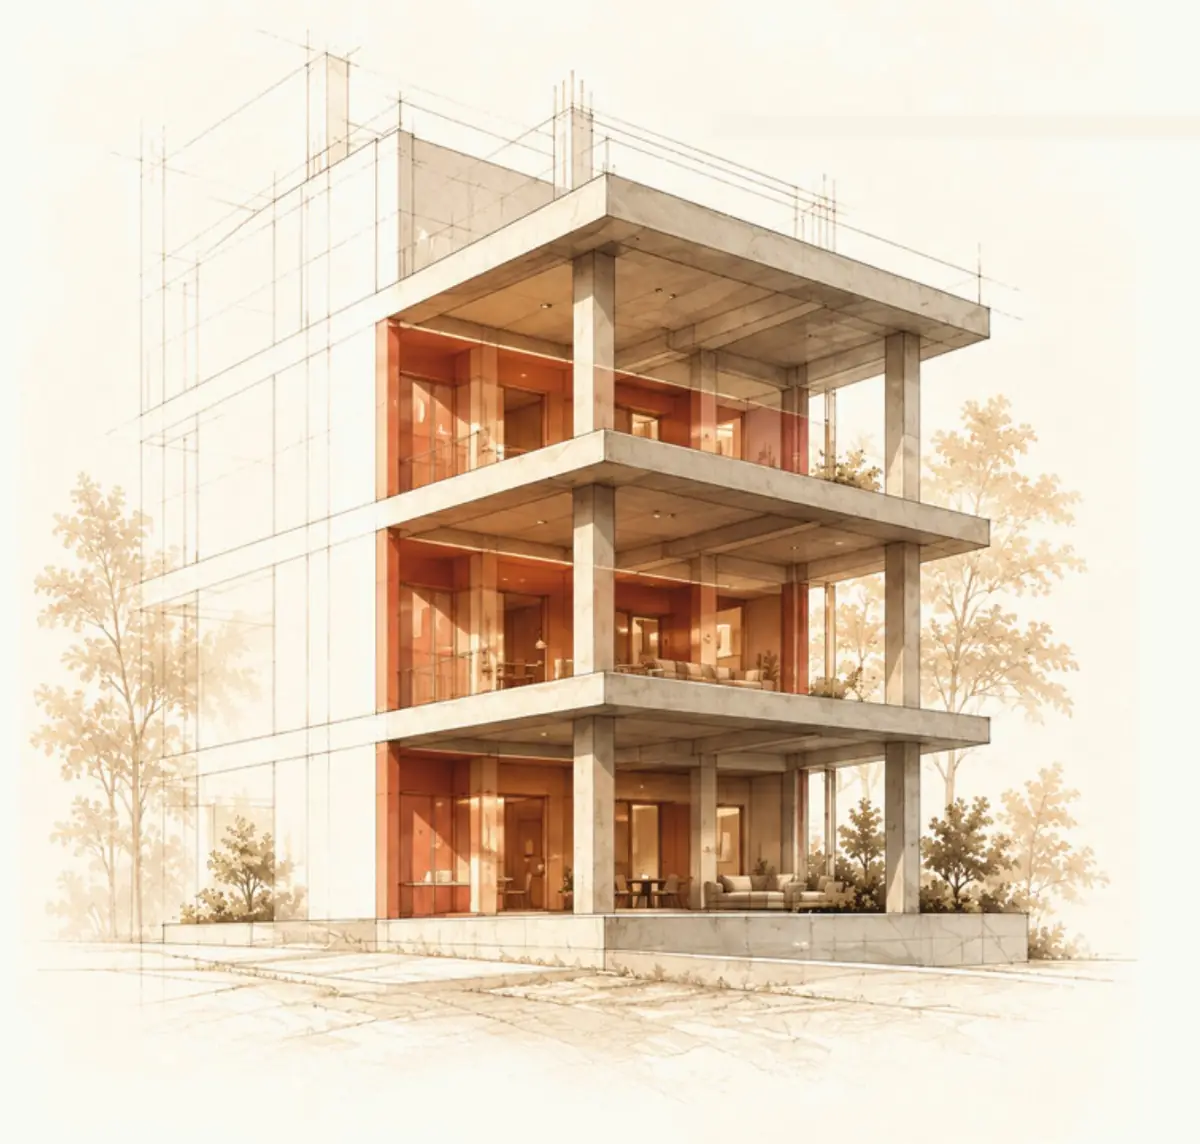
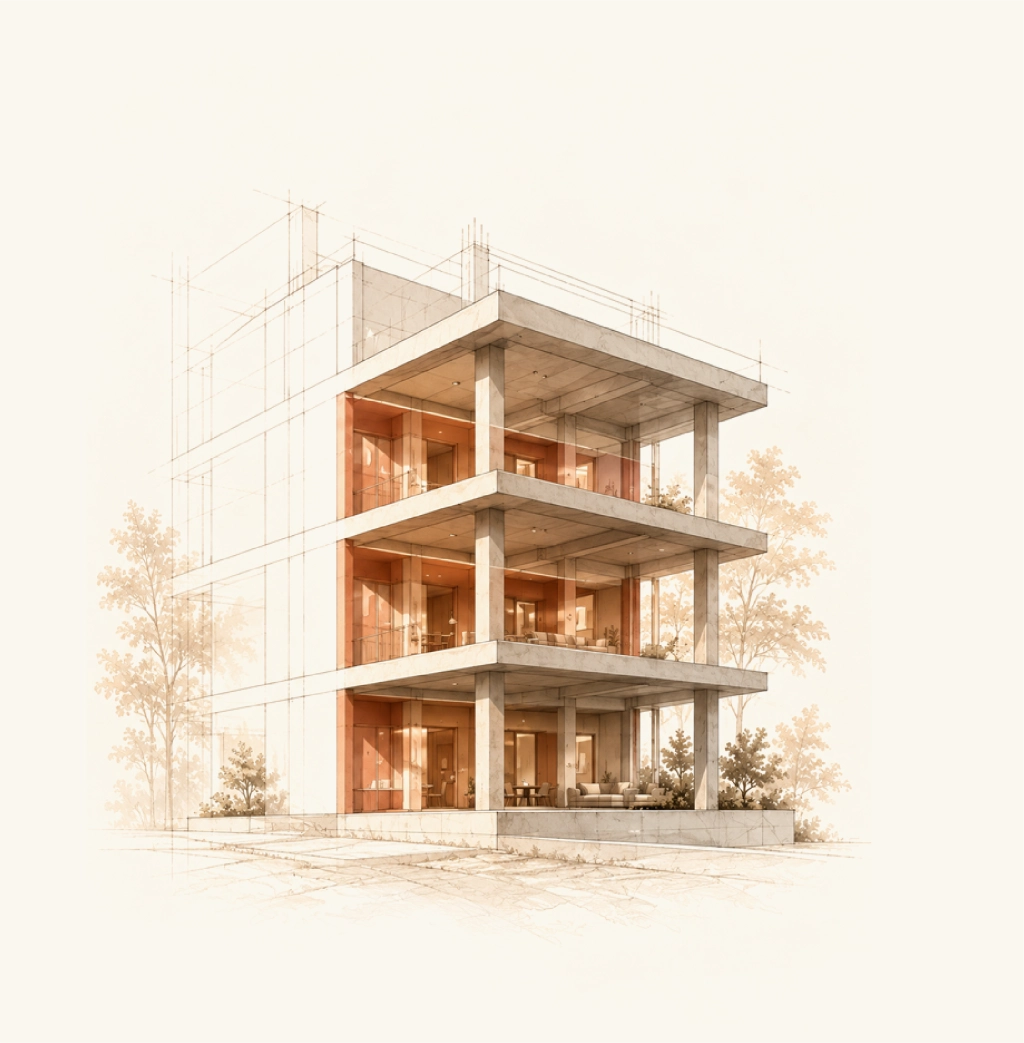
Changes applied

diff --git a/src/styles/global.css b/src/styles/global.css
@@ -558,15 +558,18 @@ html.plan-full-open .nav,html.plan-full-open .mcta{visibility:hidden}
 @media (min-width:1000px){.prog-grid{grid-template-columns:4fr 5fr 3fr;gap:48px}}
 .prog-img img{width:100%;max-width:620px;margin:0 auto}
 .checks{list-style:none;margin:0;padding:0;position:relative}
-.checks::before{content:"";position:absolute;left:15px;top:16px;bottom:16px;width:1.5px;background:linear-gradient(var(--crimson) 0 42%,var(--sand-line) 42%)}
-.checks li{position:relative;display:flex;align-items:center;gap:18px;padding:13px 0;font-size:1.18rem;font-weight:600}
-.checks .c{flex:none;width:32px;height:32px;border-radius:50%;display:grid;place-items:center;position:relative;z-index:1}
+.checks li{position:relative;display:flex;align-items:center;gap:18px;min-height:58px;padding:13px 0;font-size:1.18rem;line-height:1.2;font-weight:600}
+.checks .c{flex:none;width:32px;height:32px;border-radius:50%;display:grid;place-items:center;position:relative;z-index:1;box-sizing:border-box}
 .checks .done .c{background:var(--crimson);color:#fff}
 .checks .done{color:var(--crimson)}
 .checks .todo .c{background:var(--cream);border:1.5px dashed var(--sand-line)}
 .checks .todo{color:var(--ink-soft);font-weight:500}
-.checks .eta{margin-top:10px;padding-top:18px;border-top:1px solid var(--line);font-size:1rem;color:var(--ink)}
-.checks .eta b{font:400 1.8rem/1.1 var(--display);color:var(--crimson);display:block}
+/* connector: runs from the centre of the previous circle to the centre of this one, so it starts and ends exactly on the circles */
+.checks li:not(:first-child):not(.eta)::before{content:"";position:absolute;left:15px;top:-29px;height:58px;width:0;border-left:1.5px dashed var(--sand-line)}
+.checks li.done+li.done::before{border-left:1.5px solid var(--crimson)}
+/* completion note: divider spans the column, text starts flush with the left edge of the circles */
+.checks .eta{display:block;min-height:0;margin-top:14px;padding:20px 0 0;border-top:1px solid var(--line);font-size:1rem;font-weight:500;color:var(--ink)}
+.checks .eta b{font:400 1.8rem/1.1 var(--display);color:var(--crimson);display:block;margin-bottom:4px}
 
 /* ───────── VISION ───────── */
 .vision{position:relative;overflow:hidden;background:linear-gradient(115deg,var(--cream) 40%,#FBF1C9 85%,#F8E37A 120%)}
@@ -628,6 +631,9 @@ html.plan-full-open .nav,html.plan-full-open .mcta{visibility:hidden}
 .copy{font:700 .76rem var(--body);letter-spacing:.12em;text-transform:uppercase;background:transparent;border:1.5px solid rgba(255,248,230,.6);color:#FFF8E6;border-radius:999px;padding:.65em 1.1em;cursor:pointer}
 .copy:hover{background:#FFF8E6;color:var(--crimson-deep)}
 form.f,.thanks{background:var(--cream);color:var(--ink);border-radius:32px;padding:clamp(24px,4vw,52px);display:grid;gap:22px;box-shadow:0 40px 80px -40px rgba(60,10,30,.6)}
+.seg{display:inline-flex;padding:5px;border-radius:999px;background:var(--cream);border:1px solid var(--sand-line)}
+.seg button{font:700 .95rem/1 var(--body);border:0;background:transparent;color:var(--ink);padding:.85em 1.3em;border-radius:999px;cursor:pointer;transition:background .5s var(--ease),color .5s}
+.seg button[aria-selected="true"]{background:var(--crimson);color:#FFF8E6}
 .fr{display:grid;gap:22px}
 @media (min-width:640px){.fr.two{grid-template-columns:1fr 1fr}}
 .fld{display:grid;gap:8px;min-width:0}

diff --git a/src/data/content.js b/src/data/content.js
@@ -31,11 +31,11 @@ export const PILLARS = [
 ]
 
 export const SLIDES = [
-  { src: render086, alt: 'Front elevation render of Freedom Living', title: 'Front elevation', note: 'Entrance and drop-off' },
-  { src: render087, alt: 'Corner render showing private balconies', title: 'Balcony homes', note: 'Floors 1 to 3', tall: true, pos: '70% 50%' },
-  { src: render089, alt: 'Rear courtyard render with stacked balconies', title: 'Courtyard side', note: 'Open terrace access on every floor' },
-  { src: render088, alt: 'Side elevation render with basement parking entrance', title: 'Side elevation', note: 'Basement parking entry' },
-  { src: render090, alt: 'Sketch of the building structure under construction', title: 'Taking shape', note: 'October 2026', tall: true },
+  { src: render086, alt: 'Freedom Living apartment exterior in Palakkad', title: 'Front elevation', note: 'Main Enterence' },
+  { src: render087, alt: 'Spacious senior living community lounge', title: 'Community Lounge', note: 'Fourth Floor', tall: true, pos: '70% 50%' },
+  { src: render089, alt: 'Studio home with kitchenette and bathroom', title: 'Studio Apartment Interior', note: 'Residential Floors 1–3' },
+  { src: render088, alt: 'Indoor games and reading lounge', title: 'Community Recreation Area', note: 'Ground Floor' },
+  { src: render090, alt: 'Furnished studio apartment with living space', title: 'Studio Apartment Interior', note: 'Residential Floors 1–3', tall: true },
 ]
 
 export const LEVELS = [
@@ -137,7 +137,7 @@ export const UNITS = [
   ['G05', 589, 269, '13′2″ × 20′7″', null, [49, 18, 8, 19]],
   ['G06', 592, 270, '13′2″ × 20′7″', null, [41, 17, 8, 19]],
   ['01', 1202, 443, '25′4″ × 18′3″', '4′11″ × 18′5″', [41, 69, 15, 16]],
-  ['02', 1030, 403, '22′2″ × 18′3″', null, [59.5, 69, 13.5, 16]],
+  ['02', 1030, 403, '22′2″ × 18′3″', '3′11″ wide', [59.5, 69, 13.5, 16]],
   ['03', 863, 399, '22′2″ × 18′1″', null, [59.5, 54, 13.5, 15]],
   ['04', 1102, 440, '25′4″ × 18′1″', '4′11″ × 12′10″', [41, 54, 15, 15]],
   ['05', 749, 264, '22′9″ × 11′8″', '4′11″ × 9′9″', [42.5, 43, 13.5, 11]],

diff --git a/src/components/Sections.jsx b/src/components/Sections.jsx
@@ -46,6 +46,10 @@ export function Day() {
   )
 }
 
+const Tick = () => (
+  <svg width="16" height="16" viewBox="0 0 16 16" fill="none" stroke="currentColor" strokeWidth="2" strokeLinecap="round" strokeLinejoin="round" aria-hidden="true"><path d="M3.5 8.5l3 3 6-7" /></svg>
+)
+
 export function LocationProgress() {
   return (
     <section className="sec loc" style={{ paddingTop: 'clamp(40px,6vw,80px)' }}>
@@ -78,9 +82,9 @@ export function LocationProgress() {
           <ul className="checks rv" aria-label="Construction status by level">
             <li className="todo"><span className="c" />Rooftop</li>
             <li className="todo"><span className="c" />Floors 2 to 4</li>
-            <li className="done"><span className="c">✓</span>First floor</li>
-            <li className="done"><span className="c">✓</span>Ground floor</li>
-            <li className="done"><span className="c">✓</span>Basement</li>
+            <li className="done"><span className="c"><Tick /></span>First floor</li>
+            <li className="done"><span className="c"><Tick /></span>Ground floor</li>
+            <li className="done"><span className="c"><Tick /></span>Basement</li>
             <li className="eta"><span><b>December 2027</b>Expected completion</span></li>
           </ul>
         </div>
